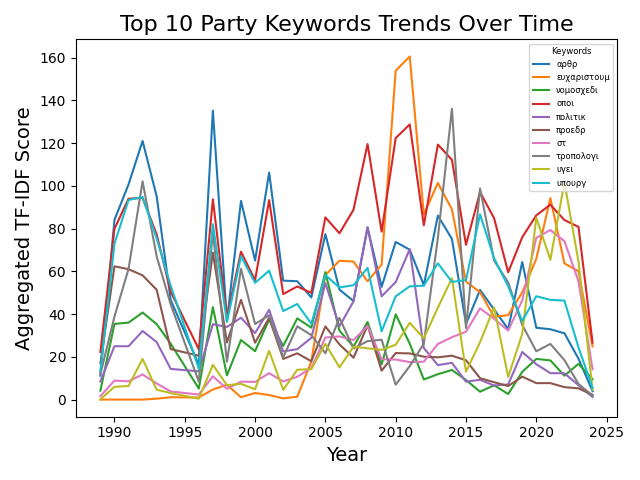
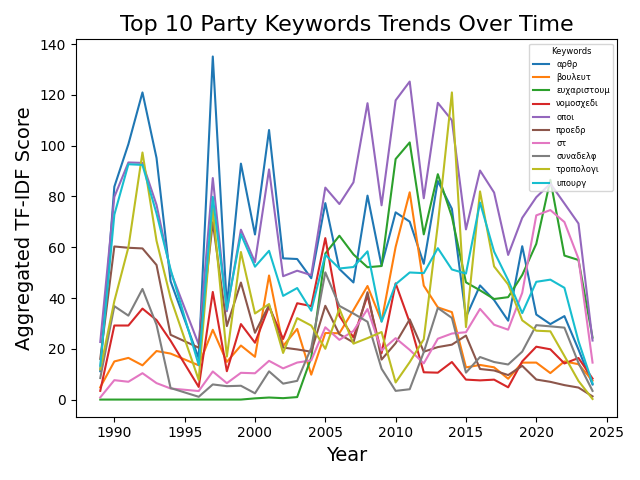
keyword finder refined, added top ekywords from all the speeches graph

diff --git a/keywords.py b/keywords.py
@@ -1,7 +1,7 @@
 import pickle
 import numpy as np
 import pandas as pd
-from sqlalchemy import create_engine, select, Table, MetaData,asc
+from sqlalchemy import create_engine, select, Table, MetaData
 import matplotlib.pyplot as plt
 from db import get_db
 import os
@@ -19,19 +19,23 @@ def load_tfidf_data():
     feature_names = vectorizer.get_feature_names_out()
     return tfidf_matrix, feature_names
 
-
+# Load Speech IDs
+def load_speech_ids():
+    with open('pkl_files/speech_ids.pkl', 'rb') as f:
+        speech_ids = pickle.load(f)
+    return speech_ids
 
 def get_top_keywords(tfidf_matrix, feature_names, top_n=10):
     COMMON_KEYWORDS = {
-    "αυτ", "εινα", "της", "αυτ", "απο", "εν", "τους", "κυρι"
-    , "οτ", "δε", "απο","αλλ","εχ","λογ","μι"
-    # Add more common keywords you want to exclude
+        "αυτ", "εινα", "της", "αυτ", "απο", "εν", "τους", "κυρι",
+        "οτ", "δε", "απο","αλλ","εχ","λογ","μι"
+        # Add more common keywords you want to exclude
     }
 
     keywords = []
     for i in range(tfidf_matrix.shape[0]):  # Iterate over rows
         row = tfidf_matrix[i].toarray().flatten()  # Convert sparse row to dense
-        indices = np.argsort(row)[::-1]  # Sort indices by TF-IDF score
+        indices = np.argsort(row)[::-1]  # Sort indices by TF-IDF score descending
         filtered_keywords = [
             (feature_names[idx], row[idx])
             for idx in indices if feature_names[idx] not in COMMON_KEYWORDS
@@ -39,39 +43,56 @@ def get_top_keywords(tfidf_matrix, feature_names, top_n=10):
         keywords.append(filtered_keywords)
     return keywords
 
-
-
 # Connect to PostgreSQL Database
-from sqlalchemy import MetaData, Table
-
 def connect_to_db():
     engine = get_db()  # Call the `get_db` function to get the engine
     metadata = MetaData()
     merged_speeches = Table("merged_speeches", metadata, autoload_with=engine)  # Use the engine for autoload
     return engine, merged_speeches
 
-# Fetch Speech Data
-def fetch_speech_data(engine, merged_speeches):
+# Fetch Speech Data using Speech IDs
+def fetch_speech_data(engine, merged_speeches, speech_ids):
+    # Build the query to select speeches matching the speech_ids
     query = select(
         merged_speeches.c.id,
         merged_speeches.c.member_name,
         merged_speeches.c.political_party,
         merged_speeches.c.sitting_date,
-    ).order_by(asc(merged_speeches.c.sitting_date))  # Add ORDER BY sitting_date ASC
-
+    ).where(
+        merged_speeches.c.id.in_(speech_ids)
+    )
+    
     with engine.connect() as conn:
         result = conn.execute(query)
-        return result.fetchall()
+        speech_data = result.fetchall()
 
-# Analyze Keywords by Member and Party
-def analyze_keywords(speech_data, extracted_keywords):
-    # Convert data into a Pandas DataFrame
-    df = pd.DataFrame(
-        speech_data, 
+    # Convert to DataFrame for easier handling
+    speech_data_df = pd.DataFrame(
+        speech_data,
         columns=["id", "member_name", "political_party", "sitting_date"]
     )
-    df["keywords"] = extracted_keywords  # Add keywords column
+    
+    # Create a DataFrame of speech_ids with their order
+    speech_ids_df = pd.DataFrame({'id': speech_ids, 'tfidf_row_index': range(len(speech_ids))})
 
+    # Merge speech_data_df with speech_ids_df on 'id'
+    merged_df = pd.merge(speech_ids_df, speech_data_df, on='id', how='left')
+
+    # Check for any missing data
+    missing_data = merged_df[merged_df['member_name'].isnull()]
+    if not missing_data.empty:
+        print("Warning: The following speech IDs are missing from the database:")
+        print(missing_data['id'].tolist())
+        # You can choose to drop these rows or handle them accordingly
+        merged_df = merged_df.dropna(subset=['member_name'])
+
+    # Sort merged_df by 'tfidf_row_index' to ensure alignment with TF-IDF matrix
+    merged_df = merged_df.sort_values('tfidf_row_index').reset_index(drop=True)
+
+    return merged_df
+
+# Analyze Keywords by Member and Party
+def analyze_keywords(df):
     # Group by member to find top keywords with their scores
     def aggregate_keywords(keywords_list):
         # Flatten the list of keywords for all speeches
@@ -86,12 +107,11 @@ def analyze_keywords(speech_data, extracted_keywords):
     member_keywords = df.groupby("member_name")["keywords"].apply(aggregate_keywords)
     party_keywords = df.groupby("political_party")["keywords"].apply(aggregate_keywords)
 
-    return df, member_keywords, party_keywords
+    return member_keywords, party_keywords
 
+# The rest of the functions remain the same...
 
-
-
-# Track Keyword Changes Over Time
+# Track Keyword Changes Over Time for Members
 def track_member_keyword_trends(df, member_keywords):
     df["sitting_year"] = pd.to_datetime(df["sitting_date"]).dt.year
 
@@ -115,7 +135,7 @@ def track_member_keyword_trends(df, member_keywords):
 
     return member_keyword_trends
 
-
+# Track Keyword Changes Over Time for Parties
 def track_party_keyword_trends(df, party_keywords):
     df["sitting_year"] = pd.to_datetime(df["sitting_date"]).dt.year
 
@@ -138,7 +158,6 @@ def track_party_keyword_trends(df, party_keywords):
     party_keyword_trends = exploded.groupby(["political_party", "sitting_year", "keyword"])["score"].sum().reset_index()
 
     return party_keyword_trends
-
 
 # Visualize Keyword Trends
 def visualize_keyword_trends_trends(df_trends, group_by, title, plot_file):
@@ -172,27 +191,69 @@ def visualize_keyword_trends_trends(df_trends, group_by, title, plot_file):
     plt.close()
     print(f"Plot saved to {plot_file}")
 
-def visualize_keyword_trends(df_trends, top_keywords=None):
-    if top_keywords:
-        df_trends = df_trends[top_keywords]
+# New functions remain the same...
 
-    df_trends.plot(kind="line", figsize=(16, 12))
-    plt.title("Keyword Trends Over Time")
-    plt.xlabel("Year")
-    plt.ylabel("Keyword Frequency")
-    plt.legend(title="Keywords")
+def compute_top_keywords_per_year(df, top_n=10):
+    df["sitting_year"] = pd.to_datetime(df["sitting_date"]).dt.year
+
+    # Explode keywords to have one keyword per row
+    exploded = df.explode("keywords")
+    exploded["keyword"] = exploded["keywords"].apply(lambda x: x[0])  # Extract keyword
+    exploded["score"] = exploded["keywords"].apply(lambda x: x[1])    # Extract score
+
+    # Group by year and keyword to sum scores
+    yearly_keyword_scores = exploded.groupby(["sitting_year", "keyword"])["score"].sum().reset_index()
+
+    # For each year, get top N keywords
+    top_keywords_per_year = yearly_keyword_scores.groupby("sitting_year").apply(
+        lambda x: x.nlargest(top_n, 'score')
+    ).reset_index(drop=True)
+
+    return top_keywords_per_year
+
+def compute_top_keywords_overall_and_trend(df, top_n=10):
+    df["sitting_year"] = pd.to_datetime(df["sitting_date"]).dt.year
+
+    # Explode keywords to have one keyword per row
+    exploded = df.explode("keywords")
+    exploded["keyword"] = exploded["keywords"].apply(lambda x: x[0])  # Extract keyword
+    exploded["score"] = exploded["keywords"].apply(lambda x: x[1])    # Extract score
+
+    # Aggregate total scores for all keywords
+    total_keyword_scores = exploded.groupby("keyword")["score"].sum().reset_index()
+
+    # Get top N keywords overall
+    top_keywords_overall = total_keyword_scores.nlargest(top_n, 'score')['keyword'].tolist()
+
+    # Filter exploded DataFrame to include only top keywords
+    exploded_top_keywords = exploded[exploded["keyword"].isin(top_keywords_overall)]
+
+    # Group by year and keyword to sum scores
+    keyword_trends = exploded_top_keywords.groupby(["sitting_year", "keyword"])["score"].sum().reset_index()
+
+    return top_keywords_overall, keyword_trends
+
+def visualize_overall_keyword_trends(keyword_trends, top_keywords_overall, title, plot_file):
+    # Pivot the DataFrame to have years as x-axis and keywords as columns
+    pivot_df = keyword_trends.pivot_table(index="sitting_year", columns="keyword", values="score", aggfunc='sum', fill_value=0)
+
+    # Ensure the columns are ordered according to top_keywords_overall
+    pivot_df = pivot_df[top_keywords_overall]
+
+    # Plotting
+    plt.figure(figsize=(16, 12))
+    pivot_df.plot(kind="line", linewidth=1.5)
+    plt.title(title, fontsize=16)
+    plt.xlabel("Year", fontsize=14)
+    plt.ylabel("Aggregated TF-IDF Score", fontsize=14)
+    plt.legend(title="Keywords", fontsize=8, title_fontsize=10)
     plt.tight_layout()
-    plt.show()
-
-def load_speech_ids():
-    with open('pkl_files/speech_ids.pkl', 'rb') as f:
-        speech_ids = pickle.load(f)
-    return speech_ids
+    plt.savefig(plot_file)
+    plt.close()
+    print(f"Plot saved to {plot_file}")
 
 # Main Execution Flow
 def main():
-
-
     # Load TF-IDF matrix, feature names, and speech IDs
     tfidf_matrix, feature_names = load_tfidf_data()
     speech_ids = load_speech_ids()
@@ -200,24 +261,25 @@ def main():
     # Connect to the database
     engine, merged_speeches = connect_to_db()
 
-    # Fetch speech data
-    speech_data = fetch_speech_data(engine, merged_speeches)
+    # Fetch speech data using speech IDs
+    df = fetch_speech_data(engine, merged_speeches, speech_ids)
 
-    # Convert speech data to a DataFrame
-    speech_data_df = pd.DataFrame(
-        speech_data,
-        columns=["id", "member_name", "political_party", "sitting_date"]
-    )
-    print(feature_names)
-
+    # Ensure the number of speeches matches
+    if tfidf_matrix.shape[0] != len(df):
+        print("Warning: The number of speeches in the TF-IDF matrix does not match the speech data.")
+        print(f"TF-IDF matrix rows: {tfidf_matrix.shape[0]}, Speech data rows: {len(df)}")
+        # Adjust tfidf_matrix to match the speeches available in df
+        tfidf_indices = df['tfidf_row_index'].tolist()
+        tfidf_matrix = tfidf_matrix[tfidf_indices]
 
     # Extract top keywords
     extracted_keywords = get_top_keywords(tfidf_matrix, feature_names)
 
+    # Add keywords to the DataFrame
+    df["keywords"] = extracted_keywords
+
     # Analyze keywords by member and party
-    df, member_keywords, party_keywords = analyze_keywords(
-        speech_data_df.values, extracted_keywords
-    )
+    member_keywords, party_keywords = analyze_keywords(df)
 
     print("Number of keywords per member:")
     print(member_keywords.apply(len).head())
@@ -225,14 +287,13 @@ def main():
     print("Number of keywords per party:")
     print(party_keywords.apply(len).head())
 
-
-    # 1. Track keyword trends over time for members
+    # Track keyword trends over time for members
     member_keyword_trends = track_member_keyword_trends(df, member_keywords)
 
-    # 2. Track keyword trends over time for parties
+    # Track keyword trends over time for parties
     party_keyword_trends = track_party_keyword_trends(df, party_keywords)
 
-    # 3. Visualize Member Keyword Trends
+    # Visualize Member Keyword Trends
     member_plot_file = "output/member_keyword_trends_over_time.png"
     visualize_keyword_trends_trends(
         df_trends=member_keyword_trends,
@@ -241,7 +302,7 @@ def main():
         plot_file=member_plot_file
     )
 
-    # 4. Visualize Party Keyword Trends
+    # Visualize Party Keyword Trends
     party_plot_file = "output/party_keyword_trends_over_time.png"
     visualize_keyword_trends_trends(
         df_trends=party_keyword_trends,
@@ -250,16 +311,35 @@ def main():
         plot_file=party_plot_file
     )
 
-    # **Optional: Save Keyword Trends to CSV for Further Analysis**
-    keyword_trends_file = "output/keyword_trends_over_time.csv"
-    # Combine member and party trends into a single CSV if needed
+    # Compute top keywords per year and output to CSV
+    top_keywords_per_year = compute_top_keywords_per_year(df, top_n=10)
+    top_keywords_per_year.to_csv("output/top_keywords_per_year.csv", index=False)
+    print("Top keywords per year saved to output/top_keywords_per_year.csv")
+
+    # Compute top keywords overall and track their trends
+    top_keywords_overall, keyword_trends = compute_top_keywords_overall_and_trend(df, top_n=10)
+
+    # Save top keywords overall to CSV
+    pd.DataFrame({'keyword': top_keywords_overall}).to_csv("output/top_keywords_overall.csv", index=False)
+    print("Top keywords overall saved to output/top_keywords_overall.csv")
+
+    # Save keyword trends to CSV
+    keyword_trends.to_csv("output/keyword_trends_overall.csv", index=False)
+    print("Keyword trends over time saved to output/keyword_trends_overall.csv")
+
+    # Visualize top keywords overall trends
+    overall_plot_file = "output/top_keywords_overall_trends.png"
+    visualize_overall_keyword_trends(
+        keyword_trends=keyword_trends,
+        top_keywords_overall=top_keywords_overall,
+        title="Top 10 Keywords Overall Trends Over Time",
+        plot_file=overall_plot_file
+    )
+
+    # Save member and party keyword trends to CSV
     member_keyword_trends.to_csv("output/member_keyword_trends_over_time.csv", index=False)
     party_keyword_trends.to_csv("output/party_keyword_trends_over_time.csv", index=False)
     print("Keyword trends saved to CSV files.")
 
-
-
-
 if __name__ == "__main__":
     main()
-

diff --git a/clustering.py b/clustering.py
@@ -66,7 +66,6 @@ for cluster in np.unique(clusters):
     best_speeches_per_cluster[cluster] = df.loc[best_2_indices, 'speech_id'].values
 
 
-# Assuming you have a 'speeches' table with an 'id' column
 query = text("""
     SELECT id, member_name, sitting_date, political_party,roles, merged_speech 
     FROM merged_speeches 
